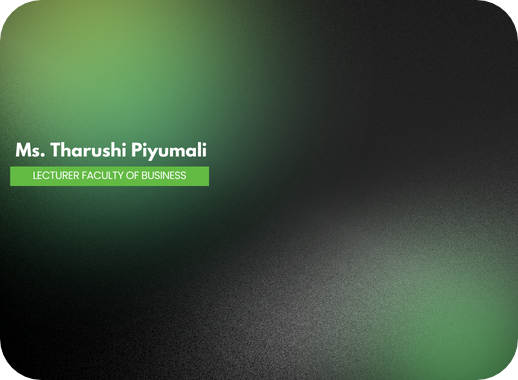
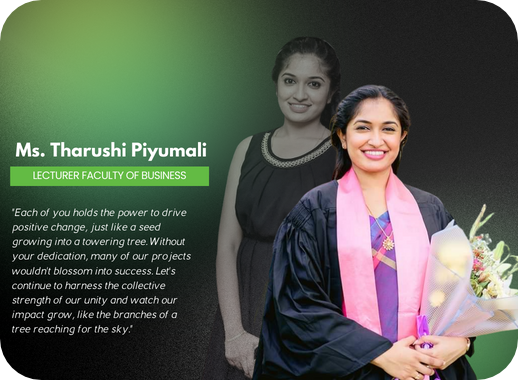
Names fixed

diff --git a/src/components/Projects.js b/src/components/Projects.js
@@ -82,17 +82,17 @@ export const Projects = () => {
       imgUrl: projImg11,
     },
     {
-      title: "Ms. Shehani Joseph",
-      description: "Lecturer - Faculty of Business",
+      title: "Mr. Mohamed Rushdi Hadhi",
+      description: "MANAGER NFORCE",
       imgUrl: projImg12,
     },
     {
-      title: "Ms. Shehani Joseph",
+      title: "Mrs. Gimhani Rangalla",
       description: "Lecturer - Faculty of Business",
       imgUrl: projImg13,
     },
     {
-      title: "Ms. Shehani Joseph",
+      title: "Ms. Tharushi Piyumali",
       description: "Lecturer - Faculty of Business",
       imgUrl: projImg14,
     },
